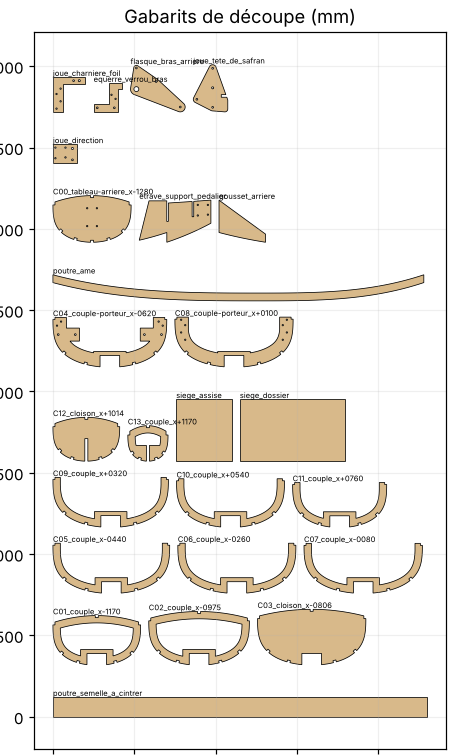
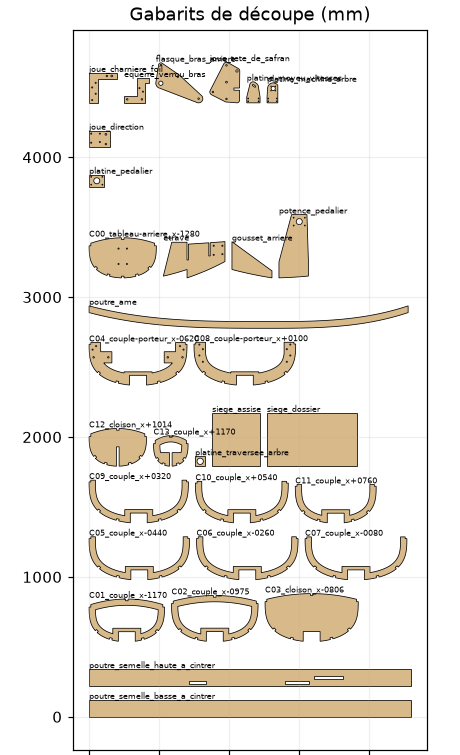
Site : images CAO refaites ; maquette : mode sieste limité à 28 degrés

Changed region(s): [[0.0, 0.0, 0.9739, 1.0]]

diff --git a/maquette/index.html b/maquette/index.html
@@ -213,7 +213,7 @@ button:focus-visible{outline:2px solid var(--accent);outline-offset:2px}
   </ul>
   <h3>Mode sieste</h3>
   <ul>
-    <li>L'assise coulisse de 20 cm vers l'avant et le dossier s'incline d'environ 50° à 24°, tenu par une béquille à crans.</li>
+    <li>L'assise coulisse de 18 cm vers l'avant, sur toute la course de ses rails, et le dossier s'incline d'environ 50° à 28°, tenu par une béquille à crans.</li>
     <li>Le coulissement évite que le dossier bute sur la cloison arrière et sur l'arbre transversal.</li>
     <li>Disponible en configuration route : à l'arrêt à terre, ou amarré avec le moteur relevé et la capote en place.</li>
   </ul>
@@ -224,7 +224,7 @@ button:focus-visible{outline:2px solid var(--accent);outline-offset:2px}
     <li>Vitesse réglementée sur l'Erdre : limites à vérifier avant de voler à 20 km/h.</li>
     <li>Sorties de l'arbre transversal, 5 à 7 cm au-dessus de la flottaison : tube traversant, toile pincée entre deux brides, joint à lèvre. À essayer.</li>
     <li>Pédalier haut, lumières de chaîne dans la poutre de quille : à valider sur un gabarit grandeur.</li>
-    <li>Le moyeu à vitesses et la couronne de la machine passent à moins de 2 cm sous le dossier. Le dossier incliné du mode sieste est à revoir.</li>
+    <li>Le moyeu à vitesses et la couronne de la machine passent à moins de 2 cm sous le dossier. En mode sieste, l'inclinaison du dossier est limitée à 28° pour passer au-dessus de la couronne.</li>
     <li>Trike non inclinable et roue avant peu chargée : vitesse modérée en virage.</li>
     <li>Stabilité en roulis à l'arrêt avec une coque de 0,74 m de large.</li>
     <li>Régulation d'altitude des foils (palpeurs ou foils en V) non représentée.</li>
@@ -746,9 +746,9 @@ let napShown=-1,napOn=false,napCur=0;
 function buildSeat(n){
   if(Math.abs(n-napShown)<0.002)return;napShown=n;
   clearG(seatG);clearG(rider);
-  const d=0.2*n,beta=lerp(49.4,24,n)*Math.PI/180;
-  const piv=V(-0.36+d,0.25,0),top=V(piv.x-0.645*Math.cos(beta),piv.y+0.645*Math.sin(beta),0);
-  seatG.add(plank(piv,V(-0.02+d,0.28,0),0.38,seatMat));
+  const d=0.18*n,beta=lerp(49.4,28,n)*Math.PI/180;   // 28 degrés : le dossier passe 16 mm au-dessus de la couronne de la machine d'arbre
+  const piv=V(-0.36+d,0.263,0),top=V(piv.x-0.645*Math.cos(beta),piv.y+0.645*Math.sin(beta),0);
+  seatG.add(plank(piv,V(-0.02+d,0.293,0),0.38,seatMat));
   seatG.add(plank(piv,top,0.38,seatMat));
   const mid=V(piv.x-0.42*Math.cos(beta),piv.y+0.42*Math.sin(beta)-0.012,0);
   [-1,1].forEach(s=>seatG.add(cyl(V(mid.x,mid.y,s*0.15),V(mid.x+0.12,0.215,s*0.07),0.008,M.alu,6)));

diff --git a/CLAUDE.md b/CLAUDE.md
@@ -135,13 +135,13 @@ Un moteur sans balais (encombrement retenu : 63 mm de diamètre, 74 mm de long, 
 15. **Direction reliée en permanence** : sur route le mât arrière relevé pivote avec la roue avant. À découpler si cela gêne (capote, housses).
 16. **Ligne de chaîne** : le caisson impose y = −35, un pédalier courant donne environ 45 mm. Le boîtier est décalé de 10 mm vers bâbord, donc les pédales aussi.
 17. **Eau dans le caisson** : les lumières l'ouvrent sur le cockpit. Prévoir un nable de vidange, et vérifier que le caisson ne relie pas les deux compartiments étanches.
-18. **Mode sieste et couronne** : la maquette incline le dossier à 24° avec le siège avancé de 20 cm. D'après les cotes de la CAO, le dossier touche alors la couronne de la machine d'arbre (environ 3 mm d'interférence) ; il passe au-dessus du moyeu. Limiter l'inclinaison vers 27° ou avancer davantage le siège. Non modélisé dans la CAO.
+18. **Mode sieste et couronne** : la couronne de la machine d'arbre limite l'inclinaison du dossier. La maquette prend 28° avec le siège avancé de 180 mm (toute la course des rails) : 16 mm au-dessus de la couronne d'après les cotes de la CAO. À 24°, il la touchait. Non modélisé dans la CAO.
 
 ## Ce qui reste à faire
 
 - Crans et verrou du siège sur ses rails (la course est chiffrée, le mécanisme n'est pas dessiné). Voir si les leviers doivent suivre le siège.
 - Moyeu à vitesses : vérifier ses cotes sur la fiche, trouver le pignon de sortie (Center Lock ou adaptateur six trous), dessiner un tendeur de chaîne primaire. Puis les carters de chaîne et les chaînes des bras arrière.
-- Mode sieste : revoir l'inclinaison du dossier (voir point dur 18). Images `assets/cao-*.png` du site à refaire depuis le nouvel aperçu.
+- Mode sieste : dessiner la béquille à crans du dossier dans la CAO, avec sa butée à 28° (voir point dur 18).
 - Pédalier électrique : essai sur établi de la sensation de pédalage, puis choix de la machine d'arbre, des deux variateurs et de la loi de commande. Placer variateurs et batterie, à l'abri des projections.
 - Dernier tronçon des gaines de frein arrière : la boucle qui suit le relevage du bras, jusqu'au levier du tambour.
 - Capteur de pédalage au pédalier pour l'assistance sur route (cadence, ou boîtier à capteur de couple du commerce). Tension de la chaîne de la machine d'arbre (trous oblongs dans sa platine, non dessinés).
@@ -169,4 +169,4 @@ Un moteur sans balais (encombrement retenu : 63 mm de diamètre, 74 mm de long, 
 - Logo : un croissant orange (la coque, et la lune de Phoebé) porté par un foil au-dessus d'une vague. Fichiers SVG dans `identite/`, mot « phoebe » vectorisé en Bricolage Grotesque gras.
 - Couleurs : encre `#16252b`, Erdre `#0f6f86`, housse (orange) `#d9622b`, toile `#f6f3ea`, ciel `#dfe9ec`, écume `#7cc4d6`, okoumé `#cfa873`. Polices : Bricolage Grotesque (titres), Barlow (texte).
 - Ton : phrase signature « Je vais en Phoebe. », Phoebe au féminin, toujours rappeler que c'est une étude de concept, distinguer chiffres calculés et estimés. Projet personnel, tous droits réservés : pas de fichiers à télécharger. La section « Participer » (ancre `#participer`, bouton dans l'en-tête) est revenue à la demande de Guillaume : chaque carte a un lien « En discuter » qui ouvre un ticket GitHub au sujet prérempli, suivie du bloc d'appel aux contributions et du bouton « Proposer une idée ». On invite à discuter, sans écrire « projet ouvert ».
-- Le site reprend les chiffres de référence et les points durs de ce fichier : les mettre à jour ensemble. `assets/cao-apercu.png` et `assets/cao-gabarits.png` sont des recadrages de `cad/out/phoebe-apercu.png`.
+- Le site reprend les chiffres de référence et les points durs de ce fichier : les mettre à jour ensemble. `assets/cao-apercu.png` et `assets/cao-gabarits.png` sont des recadrages de `cad/out/phoebe-apercu.png` : cadres (130, 150, 1700, 575) et (630, 748, 1090, 1503), refaits le 17 novembre 2026.
